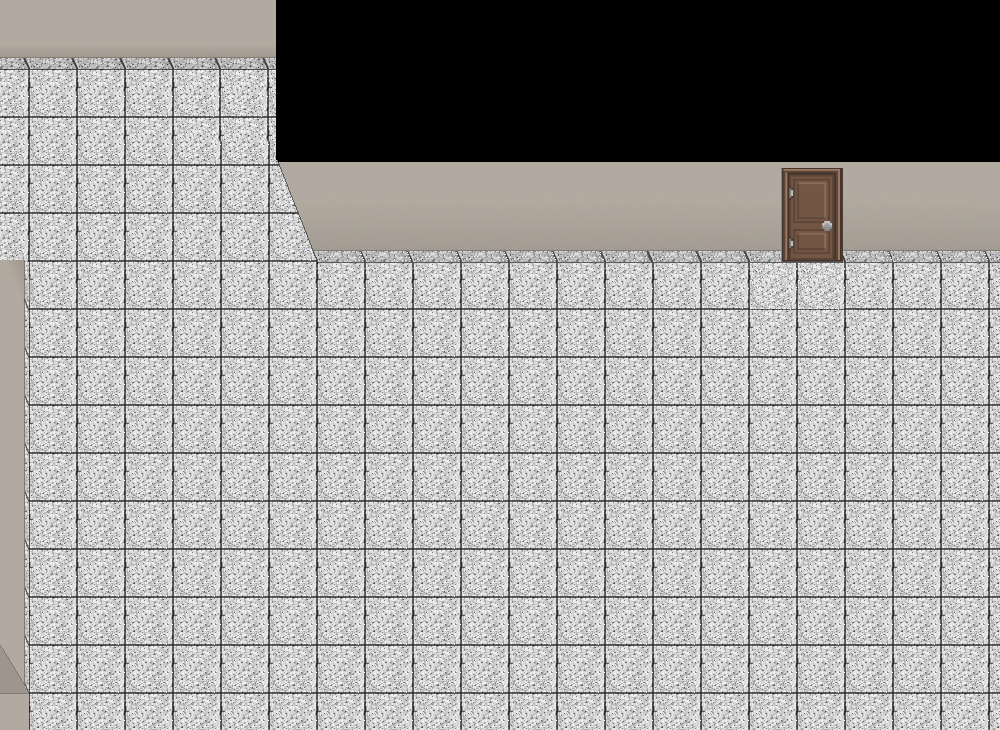
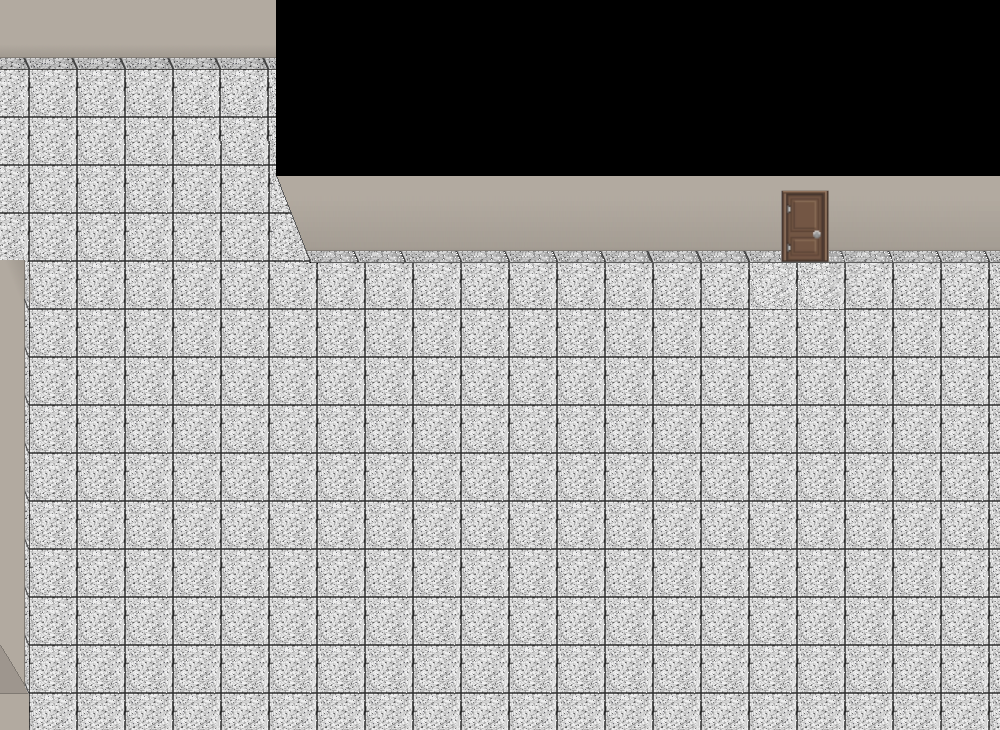
Floor2 edit

Changed region(s): [[0.248, 0.211, 1.0, 0.3918]]

diff --git a/Somber/Floor2.cpp b/Somber/Floor2.cpp
@@ -74,7 +74,7 @@ void Floor2::Init(Engine* game)
 	door.setPosition(110, 5);
 	floor2Cover.setTexture(floor2CovTex);
 	floor2Cover.setScale(1.35, 1.35);
-	floor2Cover.setPosition(374, 0);
+	floor2Cover.setPosition(372, 19);
 
 	/////////////// balcony //////////////////////////
 	balcony.Init(
